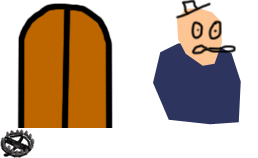
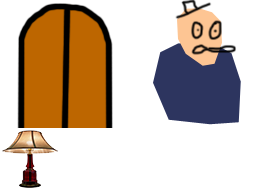
click targets can be draggable items, simplify sprite creation

diff --git a/index.bundle.js b/index.bundle.js
@@ -41827,7 +41827,7 @@ module.exports=
 		{
 			"id": 2,
 			"speaker": "johnson15",
-			"text": "Sure. Whatever. I'm going to go back to building this wall now.",
+			"text": "Sure. <i>Whatever.</i> I'm going to go back to building this wall now.",
 			"responses":[
 				{
 					"text": "I'll give you a candy bar if you make it out of cardboard.",
@@ -41877,8 +41877,12 @@ Scene.prototype.added = function()
 
 }
 
-Scene.prototype.createClickTarget = function(mesh)
+Scene.prototype.createClickableSprite = function(key, x, y)
 {
+	var mesh = ThreeUtils.makeAtlasMesh(ThreeUtils.loadAtlas("general"), key);
+	this.transform.add(mesh);
+	mesh.position.set(x, y, -20);
+
 	var target = new ClickTarget(mesh);
 	this.clickTargets.push(target);
 	return target;
@@ -41917,6 +41921,7 @@ Conversation = require("./conversation.js");
 
 var ClickTarget = function(mesh)
 {
+	this.enabled = true;
 	this.mesh = mesh;
 	this.bounds = new THREE.Box3();
 
@@ -41936,6 +41941,7 @@ module.exports = ClickTarget;
 
 ClickTarget.prototype.isPointInBounds = function(point)
 {
+	if (!this.enabled) return false;
 	var point = new THREE.Vector3(point.x, point.y, 0);
 	this.getBoundingBox();
 	point.z = (this.bounds.min.z + this.bounds.max.z) / 2;
@@ -41948,11 +41954,24 @@ ClickTarget.prototype.getBoundingBox = function()
 	return this.bounds;
 }
 
+ClickTarget.prototype.enable = function()
+{
+	this.enabled = true;
+	this.mesh.visible = true;
+}
+
+ClickTarget.prototype.disable = function()
+{
+	this.enabled = false;
+	this.mesh.visible = false;
+}
+
 ClickTarget.prototype.trigger = function()
 {
 	if (this.collectItem)
 	{
-		//TODO: give item to player and disable me
+		Inventory.addItem(Inventory.items[this.collectItem]);
+		this.disable();
 	}
 	if (this.triggerConversation)
 	{
@@ -42271,12 +42290,12 @@ CreationOfTheWorldScene.prototype = new Scene();
 CreationOfTheWorldScene.prototype.added = function()
 {
 	// create johnson
-	this.johnson15 = ThreeUtils.makeAtlasMesh(ThreeUtils.loadAtlas("general"), "johnson15_sprite");
-	this.transform.add(this.johnson15);
-	this.johnson15.position.set(100, 100, -20);
+	var johnsonSprite = this.createClickableSprite("johnson15_sprite", 100, 100);
+	johnsonSprite.triggerConversation = require("../data/sample_conversation.json");
 
-	var johnsonClickTarget = this.createClickTarget(this.johnson15);
-	johnsonClickTarget.triggerConversation = require("../data/sample_conversation.json");
+	// create lamp
+	var lampSprite = this.createClickableSprite("lamp", 200, 200);
+	lampSprite.collectItem = "lamp";
 }
 
 module.exports = new CreationOfTheWorldScene();
@@ -42298,19 +42317,11 @@ IndexScene.prototype = new Scene();
 IndexScene.prototype.added = function()
 {
 	// create johnson
-	this.johnson15 = ThreeUtils.makeAtlasMesh(ThreeUtils.loadAtlas("general"), "johnson15_sprite");
-	this.transform.add(this.johnson15);
-	this.johnson15.position.set(100, 100, -20);
-
-	var johnsonClickTarget = this.createClickTarget(this.johnson15);
-	johnsonClickTarget.triggerConversation = require("../data/sample_conversation.json");
+	var johnsonSprite = this.createClickableSprite("johnson15_sprite", 100, 100);
+	johnsonSprite.triggerConversation = require("../data/sample_conversation.json");
 
 	// create door
-	this.door = ThreeUtils.makeAtlasMesh(ThreeUtils.loadAtlas("general"), "door");
-	this.transform.add(this.door);
-	this.door.position.set(300, 100, -20);
-
-	var doorClickTarget = this.createClickTarget(this.door);
+	var doorClickTarget = this.createClickableSprite("door", 300, 100);
 	doorClickTarget.triggerScene = "creationOfTheWorld";
 }
 
@@ -42397,13 +42408,13 @@ module.exports =
 {
 	url: "media/general_atlas.png",
 	width: 258,
-	height: 158,
+	height: 189,
 	filter: THREE.LinearFilter,
 	sprites:
 	{
 	"door":[0,0,128,128],
 	"johnson15_sprite":[129,0,128,128],
-	"trap":[0,129,35,29],
+	"lamp":[0,129,60,60],
 	},
 },
 "johnson15":

diff --git a/src/game/clicktarget.js b/src/game/clicktarget.js
@@ -5,6 +5,7 @@ Conversation = require("./conversation.js");
 
 var ClickTarget = function(mesh)
 {
+	this.enabled = true;
 	this.mesh = mesh;
 	this.bounds = new THREE.Box3();
 
@@ -24,6 +25,7 @@ module.exports = ClickTarget;
 
 ClickTarget.prototype.isPointInBounds = function(point)
 {
+	if (!this.enabled) return false;
 	var point = new THREE.Vector3(point.x, point.y, 0);
 	this.getBoundingBox();
 	point.z = (this.bounds.min.z + this.bounds.max.z) / 2;
@@ -36,11 +38,24 @@ ClickTarget.prototype.getBoundingBox = function()
 	return this.bounds;
 }
 
+ClickTarget.prototype.enable = function()
+{
+	this.enabled = true;
+	this.mesh.visible = true;
+}
+
+ClickTarget.prototype.disable = function()
+{
+	this.enabled = false;
+	this.mesh.visible = false;
+}
+
 ClickTarget.prototype.trigger = function()
 {
 	if (this.collectItem)
 	{
-		//TODO: give item to player and disable me
+		Inventory.addItem(Inventory.items[this.collectItem]);
+		this.disable();
 	}
 	if (this.triggerConversation)
 	{

diff --git a/src/game/scene_index.js b/src/game/scene_index.js
@@ -14,19 +14,11 @@ IndexScene.prototype = new Scene();
 IndexScene.prototype.added = function()
 {
 	// create johnson
-	this.johnson15 = ThreeUtils.makeAtlasMesh(ThreeUtils.loadAtlas("general"), "johnson15_sprite");
-	this.transform.add(this.johnson15);
-	this.johnson15.position.set(100, 100, -20);
-
-	var johnsonClickTarget = this.createClickTarget(this.johnson15);
-	johnsonClickTarget.triggerConversation = require("../data/sample_conversation.json");
+	var johnsonSprite = this.createClickableSprite("johnson15_sprite", 100, 100);
+	johnsonSprite.triggerConversation = require("../data/sample_conversation.json");
 
 	// create door
-	this.door = ThreeUtils.makeAtlasMesh(ThreeUtils.loadAtlas("general"), "door");
-	this.transform.add(this.door);
-	this.door.position.set(300, 100, -20);
-
-	var doorClickTarget = this.createClickTarget(this.door);
+	var doorClickTarget = this.createClickableSprite("door", 300, 100);
 	doorClickTarget.triggerScene = "creationOfTheWorld";
 }
 

diff --git a/src/game/scene_creation_of_the_world.js b/src/game/scene_creation_of_the_world.js
@@ -14,12 +14,12 @@ CreationOfTheWorldScene.prototype = new Scene();
 CreationOfTheWorldScene.prototype.added = function()
 {
 	// create johnson
-	this.johnson15 = ThreeUtils.makeAtlasMesh(ThreeUtils.loadAtlas("general"), "johnson15_sprite");
-	this.transform.add(this.johnson15);
-	this.johnson15.position.set(100, 100, -20);
+	var johnsonSprite = this.createClickableSprite("johnson15_sprite", 100, 100);
+	johnsonSprite.triggerConversation = require("../data/sample_conversation.json");
 
-	var johnsonClickTarget = this.createClickTarget(this.johnson15);
-	johnsonClickTarget.triggerConversation = require("../data/sample_conversation.json");
+	// create lamp
+	var lampSprite = this.createClickableSprite("lamp", 200, 200);
+	lampSprite.collectItem = "lamp";
 }
 
 module.exports = new CreationOfTheWorldScene();

diff --git a/index.html b/index.html
@@ -66,8 +66,8 @@ void main()
 	<li id="inventoryTitle">Inventory</li>
 </ul>
 
-<button onclick="Inventory.addItem(Inventory.items.lamp)">hey</button>
-<button onclick="Inventory.removeItem(Inventory.items.lamp)">remove</button>
+<!--button onclick="Inventory.addItem(Inventory.items.lamp)">hey</button>
+<button onclick="Inventory.removeItem(Inventory.items.lamp)">remove</button-->
 
 
 <div id="conversation_portrait">

diff --git a/src/game/base_scene.js b/src/game/base_scene.js
@@ -14,8 +14,12 @@ Scene.prototype.added = function()
 
 }
 
-Scene.prototype.createClickTarget = function(mesh)
+Scene.prototype.createClickableSprite = function(key, x, y)
 {
+	var mesh = ThreeUtils.makeAtlasMesh(ThreeUtils.loadAtlas("general"), key);
+	this.transform.add(mesh);
+	mesh.position.set(x, y, -20);
+
 	var target = new ClickTarget(mesh);
 	this.clickTargets.push(target);
 	return target;

diff --git a/src/sdk/atlases/index.js b/src/sdk/atlases/index.js
@@ -10,13 +10,13 @@ module.exports =
 {
 	url: "media/general_atlas.png",
 	width: 258,
-	height: 158,
+	height: 189,
 	filter: THREE.LinearFilter,
 	sprites:
 	{
 	"door":[0,0,128,128],
 	"johnson15_sprite":[129,0,128,128],
-	"trap":[0,129,35,29],
+	"lamp":[0,129,60,60],
 	},
 },
 "johnson15":
